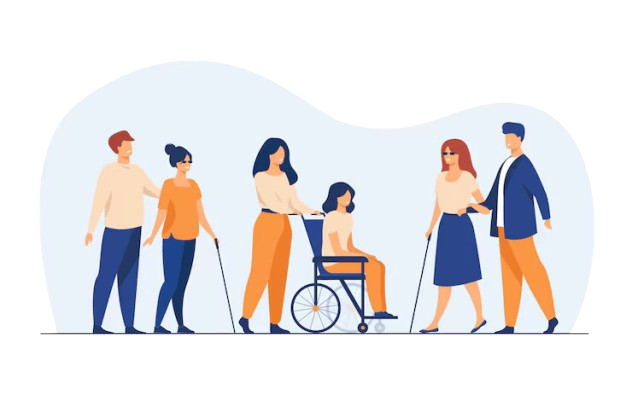
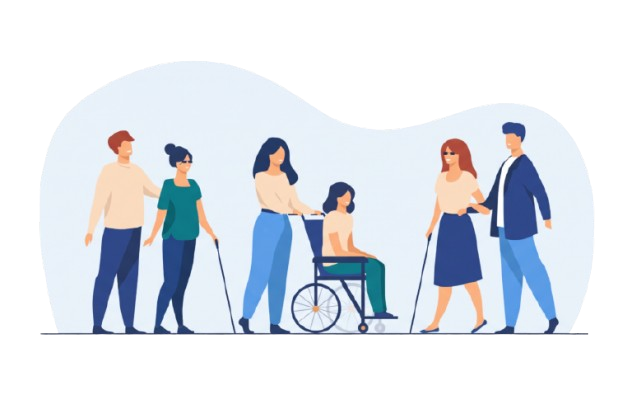
Simplify tab navigation and auth UI

diff --git a/expo/tabs/network/ConnectionTab.js b/expo/tabs/network/ConnectionTab.js
@@ -23,101 +23,16 @@ const ConnectionTab = () => {
     const insets = useSafeAreaInsets();
 
     const styles = StyleSheet.create({
-        header: {
-            width: theme.size.all,
-            flexDirection: "row",
-            justifyContent: "space-between",
-        },
-
-        logoText: {
-            color: theme.colors.primary,
-            fontSize: theme.text.big,
-            fontWeight: 700
-        },
-
-        headerButtons: {
-            flexDirection: "row",
-            justifyContent: "end",
-            gap: 10
-        },
-
-        iconButton: {
-            paddingRight: 0,
-        },
-
         container: {
-            width: "100%",
-            alignItems: "center",
-            marginBottom: insets.bottom + theme.spacing.md,
-            marginTop: 50,
-        },
-
-        histories: {
-            width: "100%",
-            height: "auto",
-            flexDirection: "row",
-            gap: 15,
-            marginTop: theme.spacing.md
+            width: "100%"
         }
     });
 
     return (
-        // <ScrollView
-        //     showsVerticalScrollIndicator
-        //     style={{ width: "100%" }}
-        // >
-        //     <View style={styles.container}>
-        //         <NewPublication />
-        //         <Line
-        //             thickness={0.5}
-        //             width={theme.size.all}
-        //             color={theme.colors.border}
-        //         />
-
-        //         <Publication
-        //             image={placeholder}
-        //             publication={{
-        //                 date: "Hace 2h",
-        //                 user: {
-        //                     avatar: placeholder,
-        //                     name: "Juan Julian",
-        //                     role: "Desarrollador"
-        //                 },
-        //                 content: "Lorem ipsum dolor sit amet, consectetur adipiscing elit, sed do eiusmod tempor incididunt ut labore et dolore magna aliqua. Ut enim ad minim veniam, quis nostrud exercitation ullamco laboris nisi ut aliquip ex ea commodo consequat. Duis aute irure dolor in reprehenderit in voluptate velit esse cillum dolore eu fugiat nulla pariatur. Excepteur sint occaecat cupidatat non proident, sunt in culpa qui officia deserunt mollit anim id est laborum."
-        //             }}
-        //         />
-
-        //         <Publication
-        //             image={placeholder}
-        //             date={"Hace 2h"}
-        //             user={{
-        //                 avatar: placeholder,
-        //                 name: "Juan Julian",
-        //                 role: "Desarrollador"
-        //             }}
-        //         />
-
-
-        //         <Publication />
-        //         <Publication />
-        //         <Publication />
-        //         <Publication />
-        //     </View>
-        // </ScrollView>
-        <BasicLayout>
-            <ScrollView
-                showsVerticalScrollIndicator
-                style={{ width: "100%" }}
-            >
-                <NewPublication/>
-
-                <View style={styles.container}>
-                    <Text>Hola</Text>
-                </View>
-
-            </ScrollView>
-        </BasicLayout>
-    )
+        <View style={styles.container}>
+            <NewPublication/>
+        </View>
+    );
 }
 
 export default ConnectionTab;

diff --git a/expo/components/navigation/NavigationBar.js b/expo/components/navigation/NavigationBar.js
@@ -14,38 +14,13 @@ export default function NavigationBar({
     tabs = [],
     activeTab,
     onTabChange,
-    position="bottom",
-    type="default"
 }) {
     const { theme } = useTheme();
     const insets = useSafeAreaInsets();
 
-    const isSimple = type === "simple";
 
     const styles = StyleSheet.create({
         container: {
-            position: "absolute",
-            bottom: insets.bottom,
-            flexDirection: "row",
-            alignItems: "center",
-            justifyContent: "space-around",
-            paddingHorizontal: 8,
-            paddingVertical: 8,
-            backgroundColor: theme.colors.surface,
-        },
-
-        containerTop: {
-            position: "absolute",
-            top: insets.top + theme.spacing.md,
-            flexDirection: "row",
-            alignItems: "center",
-            justifyContent: "space-around",
-            paddingHorizontal: 8,
-            paddingVertical: 8,
-            backgroundColor: theme.colors.surface,
-        },
-
-        containerBottom: {
             position: "absolute",
             bottom: insets.bottom,
             flexDirection: "row",
@@ -65,22 +40,18 @@ export default function NavigationBar({
 
         item: {
             flex: 1,
-            minHeight: isSimple ? 35 : 56,
+            minHeight: 56,
             alignItems: "center",
             justifyContent: "center",
             gap: 4,
-            borderRadius: isSimple ? 0 : theme.radius.md,
-            paddingVertical: isSimple ? 0 : 6,
-            borderBottomWidth: isSimple ? 3 : 0,
-            borderBottomColor: "transparent",
-
+            borderRadius: theme.radius.md,
+            paddingVertical: 6,
         },
         activeItem: {
-            backgroundColor: isSimple ? "transparent" : `${theme.colors.primary}12`,
-            borderBottomColor: isSimple ? theme.colors.primary : "transparent",
+            backgroundColor: `${theme.colors.primary}12`,
         },
         label: {
-            fontSize: isSimple ? theme.text.baseSize : theme.text.smallSize * 0.8,
+            fontSize: theme.text.smallSize,
             textAlign: "center",
         },
         activeLabel: {
@@ -89,7 +60,7 @@ export default function NavigationBar({
     });
 
     return (
-        <View style={ position == "bottom" ? styles.containerBottom : styles.containerTop}>
+        <View style={styles.container}>
             {tabs.map(({ label, icon: Icon }, index) => {
                 const focused = activeTab === index;
                 const color = focused
@@ -120,7 +91,7 @@ export default function NavigationBar({
                         <Text
                             style={[
                                 styles.label,
-                                { color },
+                                { color, fontSize: theme.text.smallSize * 0.8 },
                                 focused && styles.activeLabel,
                             ]}
                             numberOfLines={1}

diff --git a/expo/components/layout/Tabs.js b/expo/components/layout/Tabs.js
@@ -15,8 +15,6 @@ const TabsScreen = ({
     children,
     initialTab = 0,
     scroll = true,
-    position = "bottom",
-    type="default",
     ...props
 }) => {
     const tabs = React.Children.toArray(children).filter(
@@ -33,7 +31,7 @@ const TabsScreen = ({
         tabs,
     };
 
-    return position == "bottom" ? (
+    return (
         <TabsContext.Provider value={contextValue}>
             <Screen
                 centered
@@ -44,36 +42,13 @@ const TabsScreen = ({
             </Screen>
 
             <NavigationBar
-                position={position}
                 tabs={tabs.map(tab => ({
                     label: tab.props.label,
                     icon: tab.props.icon,
                 }))}
                 activeTab={activeTab}
                 onTabChange={setActiveTab}
-                type={type}
             />
-        </TabsContext.Provider>
-    ) : (
-        <TabsContext.Provider value={contextValue}>
-            <NavigationBar
-                position={position}
-                tabs={tabs.map(tab => ({
-                    label: tab.props.label,
-                    icon: tab.props.icon,
-                }))}
-                activeTab={activeTab}
-                onTabChange={setActiveTab}
-                type={type}
-            />
-
-            <Screen
-                centered
-                scroll={scroll}
-                {...props}
-            >
-                {currentTab?.props.component}
-            </Screen>
         </TabsContext.Provider>
     );
 };

diff --git a/expo/screens/index/Network.js b/expo/screens/index/Network.js
@@ -16,12 +16,21 @@ import placeholder from "../../assets/placeholders/history.avif"
 import Publication from '../../fragments/Publication';
 import HeaderTitle from '../../fragments/HeaderTitle';
 import TabsScreen, { Tab } from '../../components/layout/Tabs';
-import ConnectionTab from '../../tabs/network/ConnectionTab';
 
 const NetworkScreen = () => {
     const { theme } = useTheme();
 
     const styles = StyleSheet.create({
+        screen: {
+            backgroundColor: theme.colors.surface,
+            width: "100%",
+            justifyContent: "flex-start",
+            alignItems: "flex-start",
+            marginTop: 40,
+            paddingVertical: -100,
+            paddingHorizontal: 0,
+        },
+
         header: {
             width: theme.size.all,
             flexDirection: "row",
@@ -63,17 +72,6 @@ const NetworkScreen = () => {
     return (
         <BasicLayout>
             <HeaderTitle>Mi red</HeaderTitle>
-
-            <TabsScreen initialTab={0} position="top" type="simple">
-                <Tab
-                    label="Conexiones"
-                    component={<ConnectionTab />}
-                />
-
-                <Tab
-                    label="Solicitudes"
-                />
-            </TabsScreen>
 
         </BasicLayout>
     );

diff --git a/expo/app/signin/login.jsx b/expo/app/signin/login.jsx
@@ -115,7 +115,7 @@ export default function LoginScreen() {
 
 
                 <View style={styles.basicContainer}>
-                    <Title style={{ textAlign: "start" }}>Iniciar Sesión</Title>
+                    <Title style={{ textAlign: "start" }}>Iniciar sesión</Title>
                     <Text style={{ marginBottom: theme.spacing.md, marginTop: -theme.spacing.sm }} variant="secondary">Ingresa tu cuenta para continuar.</Text>
 
 
@@ -157,7 +157,7 @@ export default function LoginScreen() {
                         style={styles.button}
                         onPress={form.submit}
                         disabled={form.isSubmitting || buttonsDisabled}
-                    >Iniciar Sesión</Button>
+                    >Iniciar sesión</Button>
                 </View>
 
                 <Line

diff --git a/expo/app/signin/index.jsx b/expo/app/signin/index.jsx
@@ -97,7 +97,7 @@ export default function LoggerScreen() {
                 />
 
                 <View style={styles.bottomContainer}>
-                    <Button href="signin/login">Iniciar Sesión</Button>
+                    <Button href="signin/login">Iniciar sesión</Button>
                     <Button href="signin/register" variant="secondary">Crear cuenta</Button>
 
                     <Button href="signin/register/company" variant="ghost" iconRight={ArrowRight}>¿Eres una empresa?</Button>

diff --git a/expo/screens/index/Jobs.js b/expo/screens/index/Jobs.js
@@ -58,15 +58,6 @@ const JobsScreen = () => {
         <BasicLayout>
             <HeaderTitle>Empleos</HeaderTitle>
 
-            <TabsScreen initialTab={0} position="top" type="simple">
-                <Tab
-                    label="Encontrar"
-                />
-
-                <Tab
-                    label="Postulaciones"
-                />
-            </TabsScreen>
 
         </BasicLayout>
     );

diff --git a/expo/fragments/NewPublication.js b/expo/fragments/NewPublication.js
@@ -16,7 +16,7 @@ const NewPublication = ({ user = null }) => {
     const handleSubmitImage = () => {
 
     }
-
+    
     const styles = StyleSheet.create({
         container: {
             width: theme.size.all,

diff --git a/expo/app/_layout.jsx b/expo/app/_layout.jsx
@@ -12,7 +12,7 @@ export default function RootLayout() {
             if (!token) router.replace("/signin");
         }
 
-        //checkSession();
+        checkSession();
     }, []);
     
     return (
